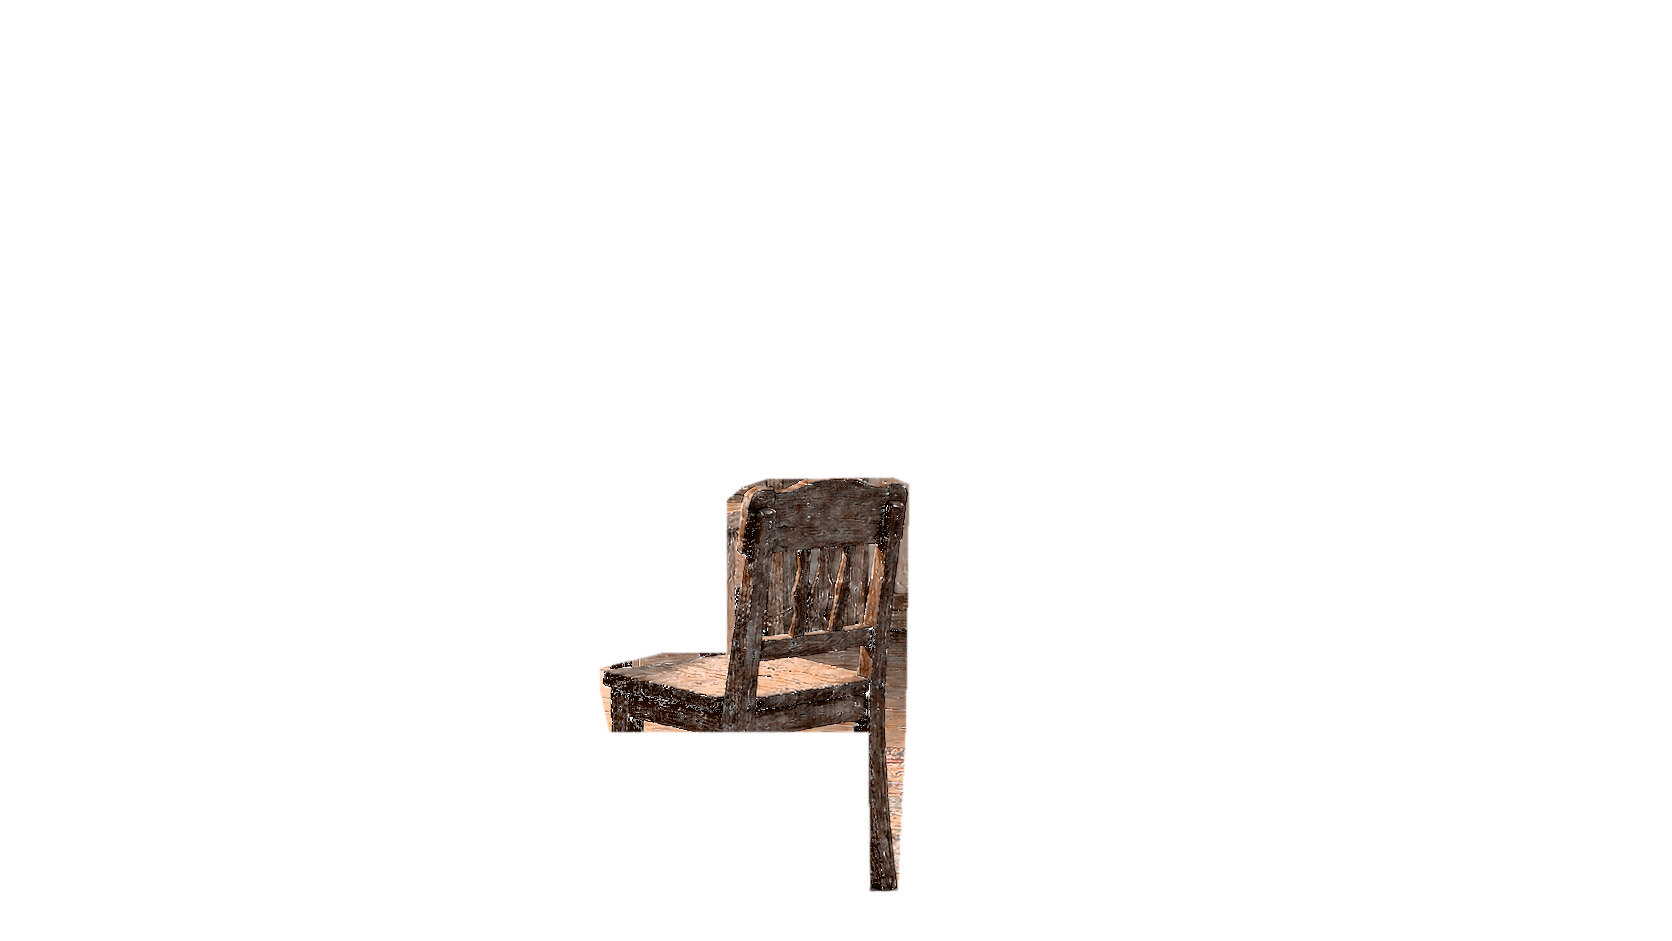
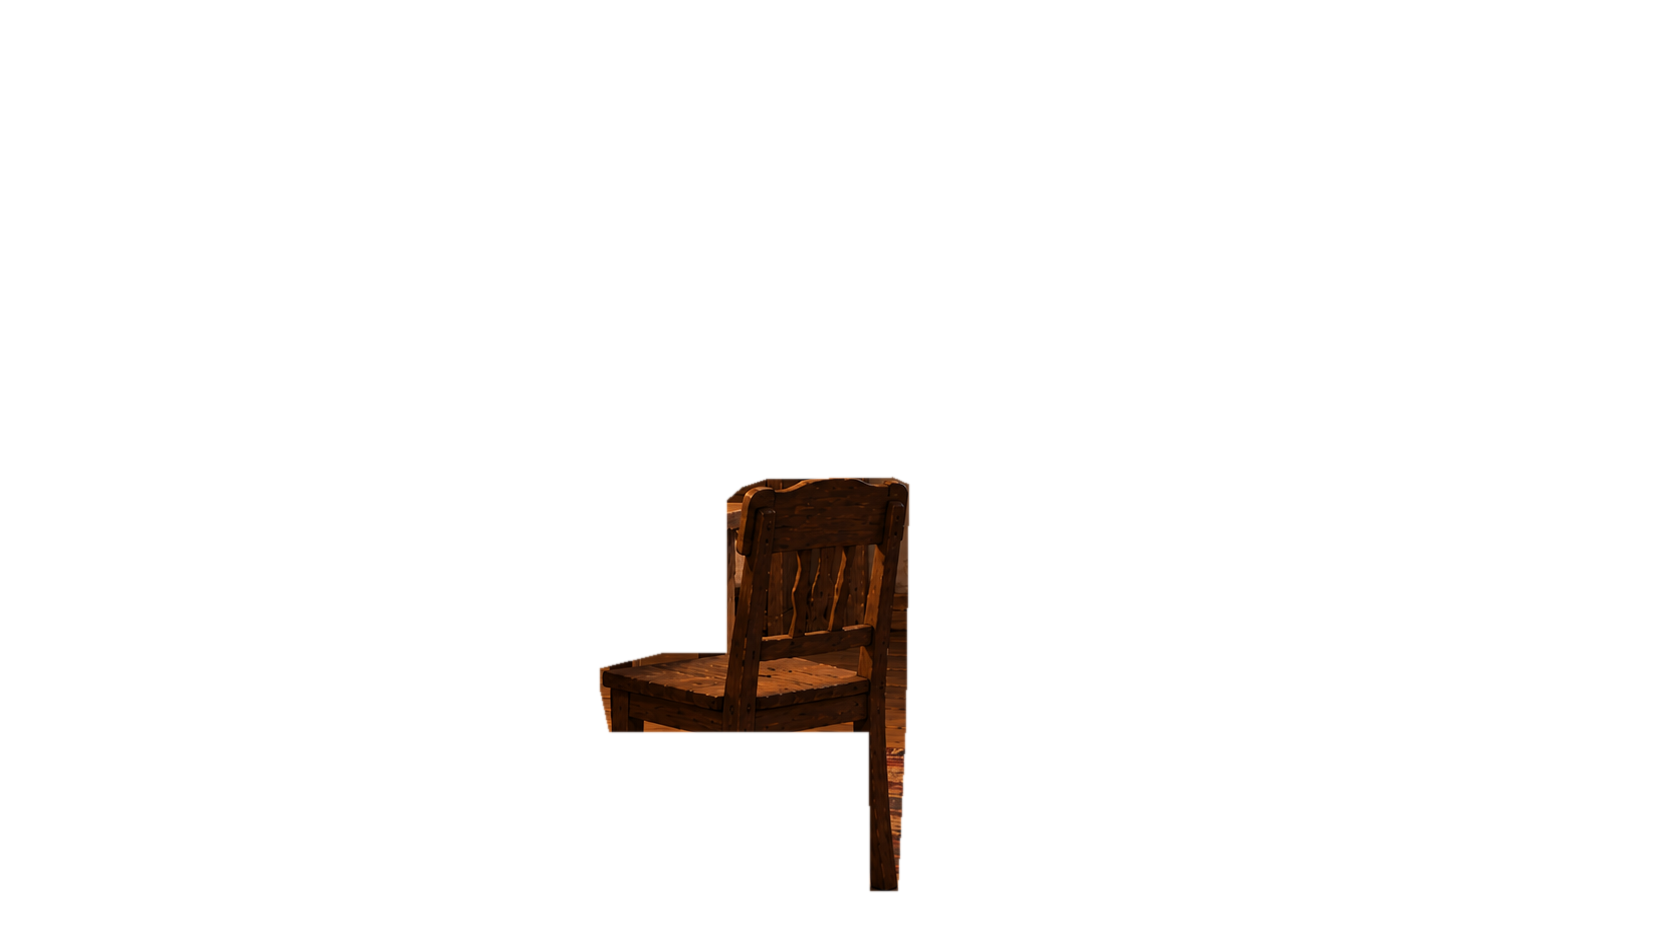
10.11 прохождение: «Облегчить» в клиньях виден на всех шагах окна и сразу облегчает полосу (R-11, самопроверка на старом коде); ночной стул горницы непрозрачный — режется из того, что на экране (make_frame_layers flatten_on), validate_occluders с самопроверкой [skip ci]
Claude-Session: https://claude.ai/code/session_01Qvdjz1zmfr41cRSvLxvjeK

Changed region(s): [[0.3421, 0.4931, 0.5598, 0.9554]]

diff --git a/tools/validate_occluders.py b/tools/validate_occluders.py
@@ -1,0 +1,65 @@
+#!/usr/bin/env python3
+"""Слои переднего плана (occluder: true) непрозрачны внутри (Директор 10.11: «Стул и Агата прозрачные, а должен быть
+только один предмет на передней перспективе, а второй на фоне»).
+
+Окклюдер рисуется поверх фигуры, которая за ним; если он полупрозрачный, фигура просвечивает — «оба прозрачные».
+Так вышло у ночной спинки стула в горнице: её вырезали из ночной накидки O3/night.png, а она сама полупрозрачная
+(в среднем 70 %; непрозрачных внутри силуэта — 13 %). Проверка: внутри силуэта слоя (силуэт, ужатый на ERODE точек — мягкий край не в счёт) непрозрачных
+(альфа ≥ 250) не меньше OPAQUE_MIN.
+Самопроверка (--self-check): тот же слой с альфой × 0,77 (как была ночная спинка) — пойман.
+
+  python3 tools/validate_occluders.py [--self-check]   → код 0, если всё в порядке
+"""
+import glob
+import json
+import os
+import sys
+
+import numpy as np
+from PIL import Image, ImageFilter
+
+ROOT = os.path.dirname(os.path.dirname(os.path.abspath(__file__)))
+ERODE = 4
+OPAQUE_MIN = 0.7   # мерка 10.11: у 28 окклюдеров игры 72–100 % (мягкие тени чашек и мела на столе — 72–75 %); ночная спинка стула до правки — 13 %
+
+
+def interior_opaque(alpha: np.ndarray) -> float:
+    """Доля непрозрачных точек внутри силуэта (силуэт — альфа > 0, ужатый на ERODE точек); 1.0 — внутри пусто."""
+    sil = Image.fromarray(((alpha > 0) * 255).astype(np.uint8))
+    inner = np.asarray(sil.filter(ImageFilter.MinFilter(2 * ERODE + 1))) > 0
+    if inner.sum() == 0:
+        return 1.0
+    return float((alpha[inner] >= 250).mean())
+
+
+def main() -> int:
+    bad = 0
+    n = 0
+    sample = None
+    for f in sorted(glob.glob(os.path.join(ROOT, "data/story/rooms/*.json"))):
+        d = json.load(open(f, encoding="utf-8"))
+        for layer in d.get("layers", []):
+            if not layer.get("occluder"):
+                continue
+            p = os.path.join(ROOT, "game", str(layer.get("image", "")).replace("res://", ""))
+            if not os.path.exists(p):
+                continue
+            a = np.asarray(Image.open(p).convert("RGBA"))[:, :, 3]
+            share = interior_opaque(a)
+            n += 1
+            if share < OPAQUE_MIN:
+                print(f"FAIL  {d.get('id')}.{layer['id']}: внутри непрозрачно {share:.0%} (< {OPAQUE_MIN:.0%}) — фигура за ним просвечивает")
+                bad += 1
+            if sample is None and a.size and (a > 0).sum() > 20000:
+                sample = (f"{d.get('id')}.{layer['id']}", a)
+    if "--self-check" in sys.argv and sample is not None:
+        faded = (sample[1].astype(np.float32) * 0.7686).astype(np.uint8)
+        caught = interior_opaque(faded) < OPAQUE_MIN
+        print(("OK    " if caught else "FAIL  ") + f"самопроверка: {sample[0]} с альфой × 0,77 " + ("пойман" if caught else "НЕ пойман"))
+        bad += not caught
+    print(f"окклюдеры: {n} слоёв, {bad} с ошибками")
+    return 1 if bad else 0
+
+
+if __name__ == "__main__":
+    sys.exit(main())

diff --git a/tools/make_frame_layers.py b/tools/make_frame_layers.py
@@ -22,7 +22,8 @@ compose — персонаж:
    "hide": [[[x, y], …], …],  — многоугольники холста, где фигура скрыта: то, что на картине перед ней (столешница,
                                   кувшин, чашка) — слой под фигурой проступает (G53: Агата сидит за столом);
    "hide_feather": 1.0}       — мягкость края скрытия, px.
-compose — вещь (кусок другой картинки):
+compose — вещь (кусок другой картинки; `"flatten_on": {"image": фон, "src_alpha": k}` — источник полупрозрачный
+  (ночная накидка): сперва положить его с прозрачностью × k на фон, резать из того, что видно на экране):
   {"src": "game/assets/rooms/H1/state_cup_table_blue.png", "crop": [x, y, w, h], "at": [x, y], "width": w,
    "tint": [...], "rotate": градусы, "alpha": 0..1, "shadow": 0, "mirror": false,
    "mask": {"poly": [[[x, y], …]], "lines": [{"pts": [[x, y], …], "width": px}], "feather": px}}
@@ -452,6 +453,19 @@ def render(c: dict, size: tuple[int, int]) -> Image.Image:
         out.alpha_composite(layer)
         return out
     src = Image.open(ROOT / c["src"]).convert("RGBA")
+    if "flatten_on" in c:
+        # Директор 10.11 («Стул и Агата прозрачные, а должен быть только один предмет на передней перспективе»): ночной
+        # слой горницы (O3/night.png) — полупрозрачная накидка поверх дневного фона (слой night, modulate …c4); вещь,
+        # вырезанная из него самого, вышла такой же полупрозрачной — Агата просвечивала сквозь спинку стула. Вещь
+        # режется из того, что на экране: подложка (`flatten_on.image`) и поверх неё источник с его прозрачностью ×
+        # `flatten_on.src_alpha` (modulate слоя) — непрозрачная картинка.
+        fo = c["flatten_on"]
+        under = Image.open(ROOT / fo["image"]).convert("RGBA").resize(src.size, Image.LANCZOS)
+        k = float(fo.get("src_alpha", 1.0))
+        top = src.copy()
+        top.putalpha(top.getchannel("A").point(lambda v: int(round(v * k))))
+        src = Image.alpha_composite(under, top)
+        src.putalpha(255)
     if "mask" in c:
         # a thing cut out of a picture without alpha (01.11, стр. 49: Mitya's lantern from the lantern close-up):
         # mask {poly: [[[x, y], …], …], lines: [{pts: [[x, y], …], width: px}], feather: px} in the source's pixels
